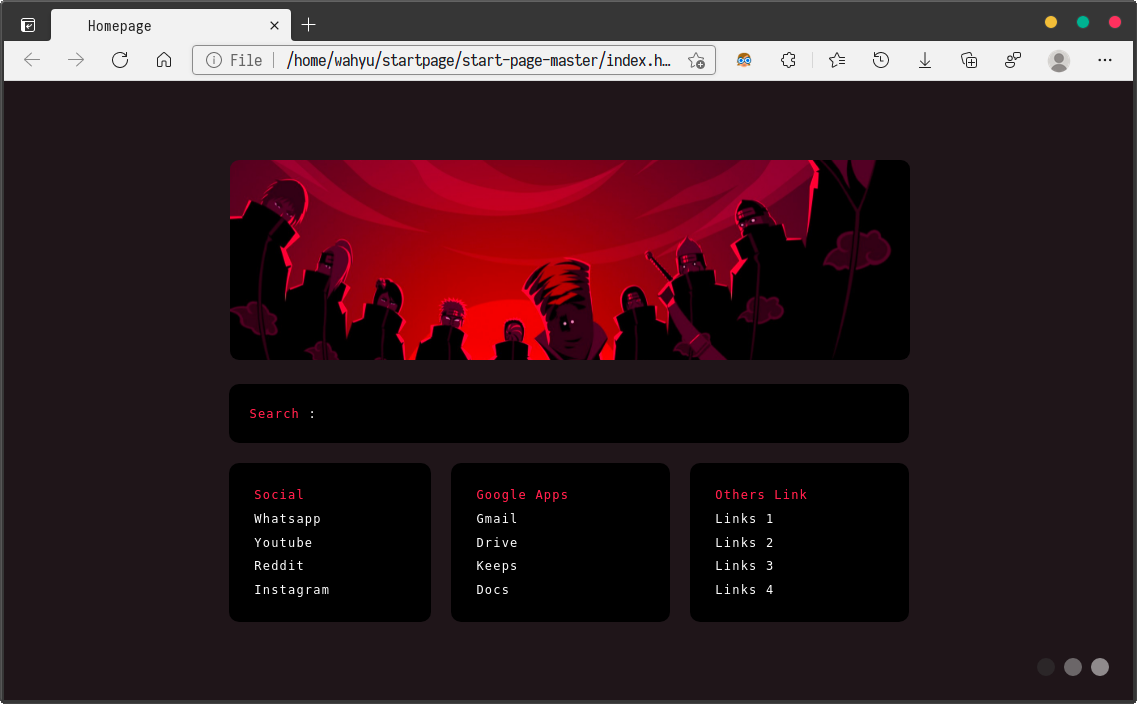
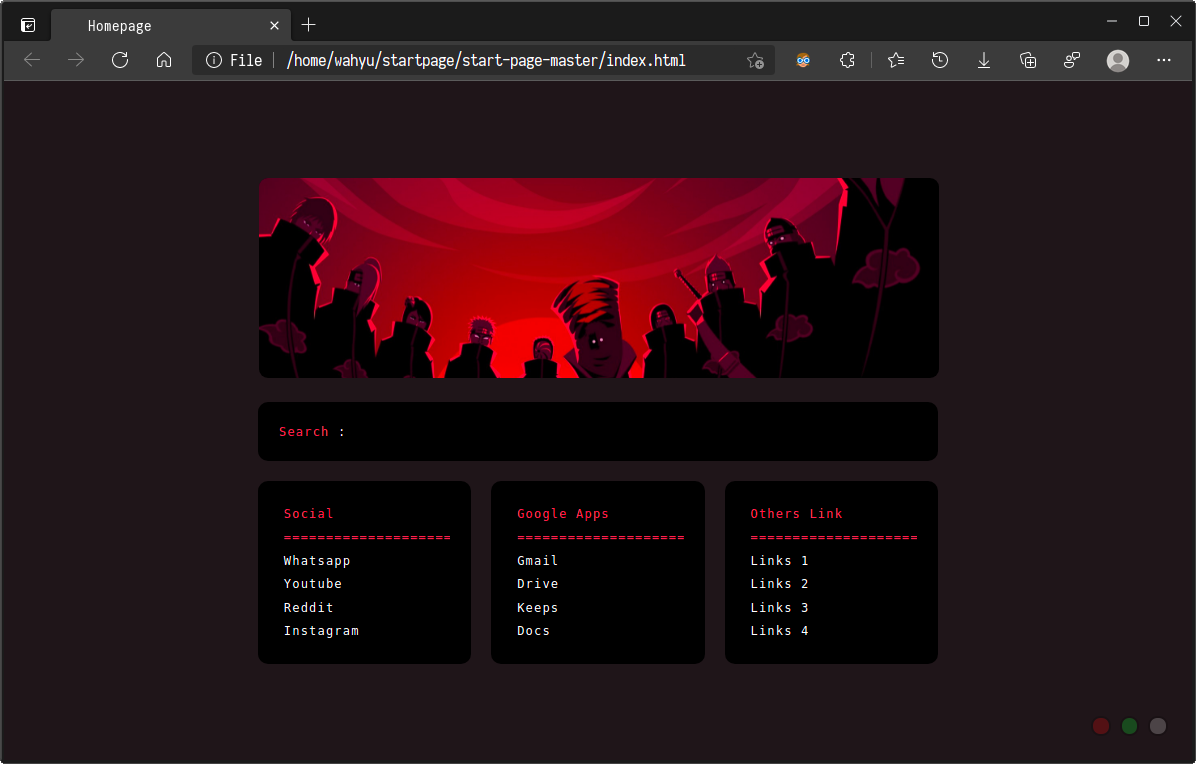
fixed row size

Changed region(s): [[0.1847, 0.2188, 0.8004, 0.9062], [0.0, 0.0, 1.0, 1.0]]

diff --git a/index.html b/index.html
@@ -33,6 +33,7 @@
 
 			<div class="linksbox">
 				<span class="link-header red">Social</span>
+				<span class="spacer">=============================================================================</span>
 				<a class="green" href="https://web.whatsapp.com">Whatsapp</a>
 				<a class="green" href="https://youtube.com">Youtube</a>
 				<a class="green" href="https://reddit.com">Reddit</a>
@@ -41,6 +42,7 @@
 
 			<div class="linksbox">
 				<span class="link-header red">Google Apps</span>
+				<span class="spacer">=============================================================================</span>
 				<a class="green" href="https://mail.google.com/">Gmail</a>
 				<a class="green" href="https://drive.google.com/">Drive</a>
 				<a class="green" href="https://keep.google.com/">Keeps</a>
@@ -49,6 +51,7 @@
 
 			<div class="linksbox">
 				<span class="link-header red">Others Link</span>
+				<span class="spacer">=============================================================================</span>
 				<a class="green" href="#">Links 1</a>
 				<a class="green" href="#">Links 2</a>
 				<a class="green" href="#">Links 3</a>

diff --git a/style.css b/style.css
@@ -25,6 +25,10 @@ html, body {
   padding: 10px;
 }
 
+.spacer {
+  overflow: hidden;
+}
+
 #image img {
   max-width: 100%;
   height: 200px;
@@ -131,25 +135,19 @@ input:focus {
 }
 a.button {
   display: block;
-  width: 1.5rem;
-  height: 1.5rem;
+  width: 1.3rem;
+  height: 1.3rem;
   margin-left: .75rem;
-  opacity: .5;
-  -webkit-transition: all .5s ease-in-out;
+  opacity: .2;
+  border: 2px solid #000000;
+  -webkit-transition: all .1s ease-in-out;
   transition: all .5s ease-in-out;
   border-radius: 100%;
-  border: none;
-  filter: grayscale(100%);
 }
 
 .button:hover {
   opacity: 1;
 }
-
-#colours:hover .button {
-  filter: grayscale(0%);
-}
-
 
 .on-click--active {
   display: none;

diff --git a/colours-default.css b/colours-default.css
@@ -50,7 +50,7 @@ input {
 .linksbox a:hover {
   border-left: 5px solid var(--green-color);
   padding-left: 10px;
-  background: #ffffff22;
+  background: #ffffff11;
 }
 
 #image img:hover, #header:hover, #links .linksbox:hover {
@@ -63,4 +63,8 @@ input {
 
 a.red:before {
   animation: none;
+}
+
+.spacer {
+  color: var(--red-color);
 }

diff --git a/colours-elegant.css b/colours-elegant.css
@@ -49,7 +49,7 @@ input {
 .linksbox a:hover {
   border-left: 5px solid var(--green-color);
   padding-left: 10px;
-  background: #ffffff22;
+  background: #00000011;
 }
 
 #image img:hover, #header:hover, #links .linksbox:hover {
@@ -62,4 +62,8 @@ input {
 
 a.red:before {
   animation: none;
+}
+
+.spacer {
+  color: var(--red-color);
 }

diff --git a/colours-hacker.css b/colours-hacker.css
@@ -64,3 +64,7 @@ input {
 a.red:before {
   animation: none;
 }
+
+.spacer {
+  color: var(--red-color);
+}
